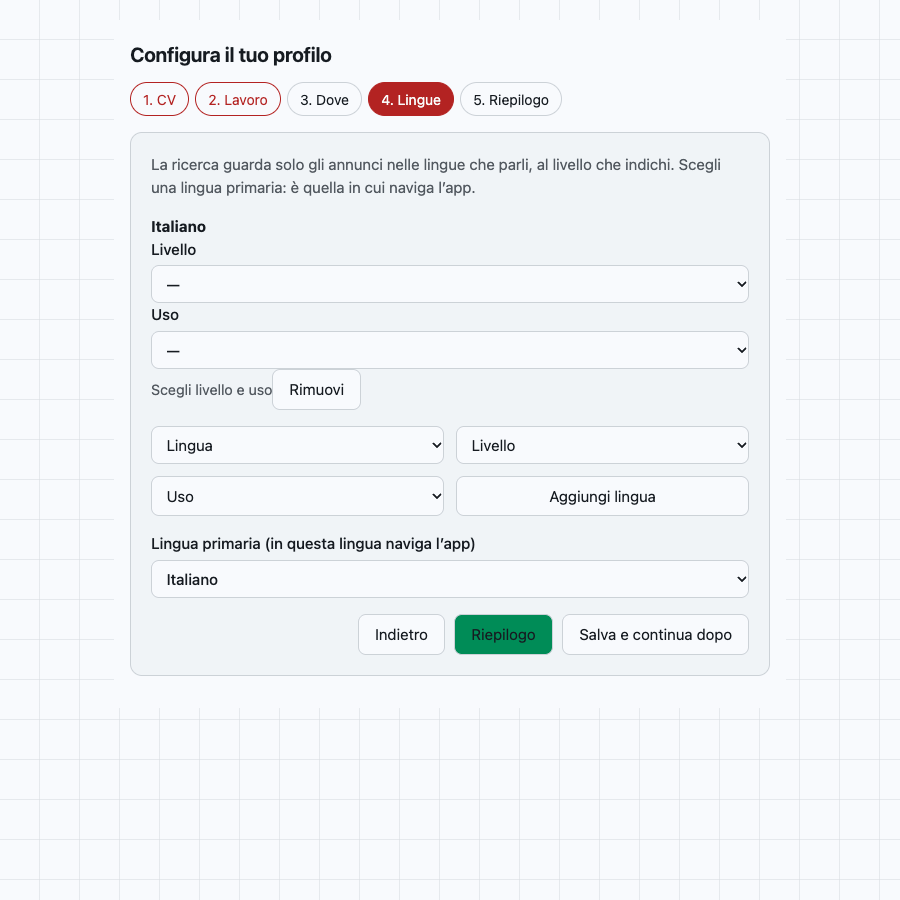
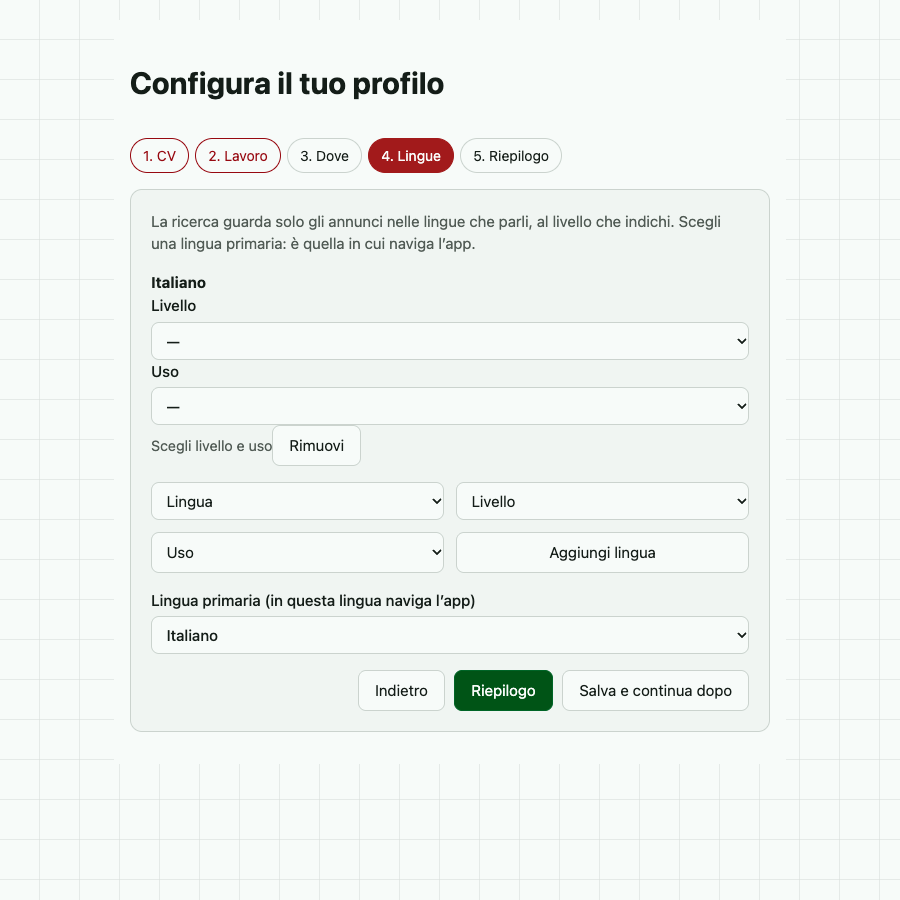
style(app): darker error red for text on light, and the primary button reads white on green
The primary button rule had lower specificity than the generic wizard button rule, which
made its text dark on green. Measured in the rendered page, every text element of the
wizard meets 4.5:1 in both themes (lowest 4.54). The browser test passes 24 of 24 and the
screenshots are refreshed.

diff --git a/poc/session-poc/ui/src/onboarding/OnboardingWizard.vue b/poc/session-poc/ui/src/onboarding/OnboardingWizard.vue
@@ -579,7 +579,7 @@ const applyHelp = (scope: ApplyScope): string => t(`apply.${scope}.help` as Mess
   --accent-hover: var(--accent);
   --on-accent: var(--cta-fg);
   --danger-strong: oklch(0.46 0.17 27);
-  --danger: oklch(0.5 0.18 27);
+  --danger: oklch(0.43 0.17 27);
   --danger-tint: oklch(0.96 0.02 27);
   --info-tint: var(--accent-soft);
   max-width: 42rem;
@@ -740,12 +740,12 @@ legend {
   color: var(--ink);
   cursor: pointer;
 }
-.actions button.primary:not(:disabled) {
+.wizard .actions button.primary:not(:disabled) {
   background: var(--cta);
   border-color: var(--cta);
   color: var(--cta-fg);
 }
-.actions button.primary:not(:disabled):hover {
+.wizard .actions button.primary:not(:disabled):hover {
   background: var(--cta-hover);
 }
 .actions button:hover:not(:disabled) {
